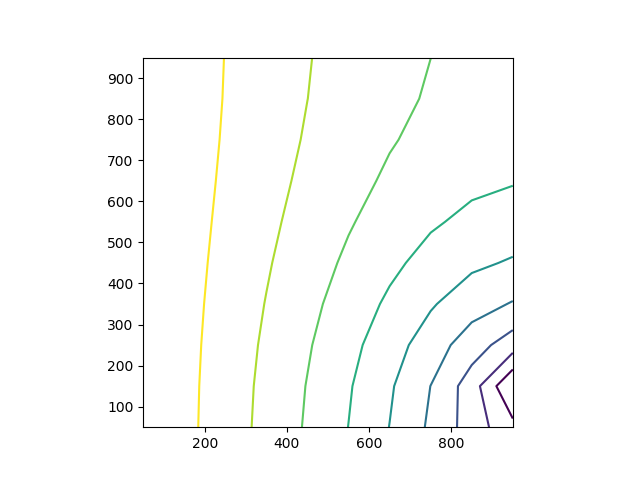
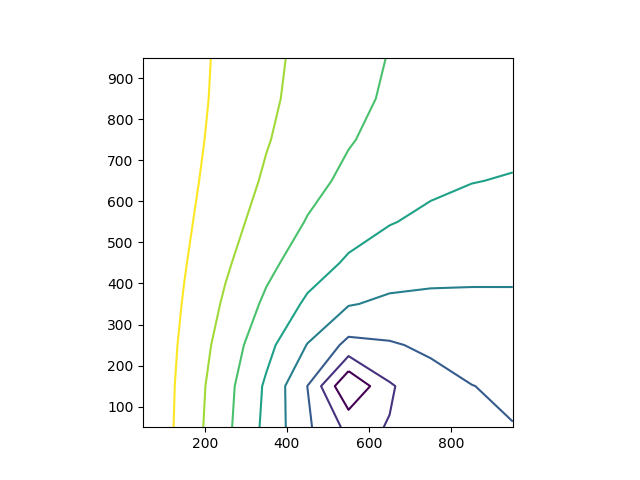
added the Zheng and bennet method (attempted)

diff --git a/partipy/partipy.py b/partipy/partipy.py
@@ -26,15 +26,22 @@ def get_flow_faces(times,time,cbbobj,lay=0):
     frf = cbbobj.get_data(text='FLOW RIGHT FACE', totim=times[idx])[0]
     return fff, frf # reverse flow up and down for flow front face
 
+def in_domain(r,c,nrow,ncol):
+    val = True
+    if (r < 0) or (r >= nrow):
+        val = False
+    if (c < 0) or (c >= ncol):
+        cal = False
+    return val
+
 def weak_sink(times,time,cbbobj,fff,frf,l,r,c):
     nlay,nrow,ncol = fff.shape
     if (r < 0) or (r >= nrow):
         return True
     if (c < 0) or (c >= ncol):
-        print('batman')
         return True
 
-    Qin = -fff[l][r,c] + frf[l][r,c] # + flf? flow from other layer, still getting there.
+    Qin = abs(fff[l][r,c]) + abs(frf[l][r,c]) # + flf? flow from other layer, still getting there.
     idx = np.searchsorted(times,time)
     if idx >= len(times):
         idx = 0
@@ -42,11 +49,12 @@ def weak_sink(times,time,cbbobj,fff,frf,l,r,c):
     chb[chb == 0] = np.nan
     Qsnk = chb[l][r,c]
     snk = Qsnk/Qin
-
+    print(Qsnk,Qin)
     if snk < 1:
         return True
     else:
         return False
+
 
 
 class track_particles():
@@ -81,6 +89,7 @@ class track_particles():
                 xp0, yp0 = xpts[-1], ypts[-1]
 
                 l,r,c = what_cell_am_i_in((xp0,yp0),1,delc,delr)
+                if not in_domain(r,c,self.nrow,self.ncol): break
                 fff,frf = get_flow_faces(self.times,time,self.cbbobj)
 
                 vxp0 = (frf[l][r,c]) / (delr[c] * thk[l][r,c] * n)
@@ -90,6 +99,7 @@ class track_particles():
                 yp1 = yp0+ vyp0 * delt/2
 
                 l,r,c = what_cell_am_i_in((xp1,yp1),1,delc,delr)
+                if not in_domain(r,c,self.nrow,self.ncol): break
                 vxp1 = (frf[l][r,c]) / (delr[c] * thk[l][r,c] * n)
                 xp2 = xp0 + vxp1 * delt/2
 
@@ -97,10 +107,7 @@ class track_particles():
                 yp2 = yp0 + vyp1 * delt/2
 
                 l,r,c = what_cell_am_i_in((xp2,yp2),1,delc,delr)
-                if (r < 0) or (r >= fff.shape[1]):
-                    break
-                if (c < 0) or (c >= fff.shape[2]):
-                    break
+                if not in_domain(r,c,self.nrow,self.ncol): break
                 vxp2 = (frf[l][r,c]) / (delr[c] * thk[l][r,c] * n)
                 xp3 = xp0 + vxp2 * delt
 
@@ -109,6 +116,7 @@ class track_particles():
                 yp3 = yp0 + vyp2 * delt
 
                 l,r,c, = what_cell_am_i_in((xp3,yp3),1,delc,delr)
+                if not in_domain(r,c,self.nrow,self.ncol): break
                 if weak_sink(self.times,time,self.cbbobj,fff,frf,l,r,c):
                     break
                 else:
@@ -117,3 +125,57 @@ class track_particles():
             end_pts[i] = [xpts,ypts]
 
         return end_pts
+
+    def Zheng(self):
+        # Runge-Kutta implicit method
+        delr, delc = self.delr, self.delc
+        thk = self.mf.dis.thickness.array
+        n = self.n
+        starting_locs = self.starting_locs
+        delt = self.delt
+        end_pts = {}
+        for i in range(len(starting_locs)):
+            x0, y0 = starting_locs[i]
+            xpts, ypts = [x0], [y0]
+            for t in range(self.ntimes):
+                time = delt * t + self.times[0]
+                xp0, yp0 = xpts[-1], ypts[-1]
+
+                l, r, c = what_cell_am_i_in((xp0, yp0), 1, delc, delr)
+                if not in_domain(r,c,self.nrow,self.ncol): break
+                fff, frf = get_flow_faces(self.times, time, self.cbbobj)
+
+                vxp0 = (frf[l][r, c]) / (delr[c] * thk[l][r, c] * n)
+                xp1 = xp0 + vxp0 * delt / 2
+
+                vyp0 = -(fff[l][r, c]) / (delc[r] * thk[l][r, c] * n)
+                yp1 = yp0 + vyp0 * delt / 2
+
+                l, r, c = what_cell_am_i_in((xp1, yp1), 1, delc, delr)
+                if not in_domain(r,c,self.nrow,self.ncol): break
+                vxp1 = (frf[l][r, c]) / (delr[c] * thk[l][r, c] * n)
+                xp2 = xp0 + vxp1 * delt / 2
+
+                vyp1 = -(fff[l][r, c]) / (delc[r] * thk[l][r, c] * n)
+                yp2 = yp0 + vyp1 * delt / 2
+
+                l,r,c = what_cell_am_i_in((xp2,yp2),1,delc,delr)
+                if not in_domain(r,c,self.nrow,self.ncol): break
+                vxp2 = (frf[l][r,c]) / (delr[c] * thk[l][r,c] * n)
+                xp3 = xp0 + vxp2 * delt
+
+                vyp2 = -(fff[l][r,c]) / (delc[r] * thk[l][r,c] * n)
+                yp3 = yp0 + vyp2 * delt
+
+                vxp3 = (frf[l][r,c]) / delr[c] * thk[l][r,c]
+                xnp1 = xpts[-1] + (delt/6)*(vxp0 + 2*vxp1 + 2*vxp2 + vxp3)
+
+                vyp3 = (frf[l][r,c]) / delr[c] * thk[l][r,c]
+                ynp1 = ypts[-1] + (delt/6)*(vyp0 + 2*vyp1 + 2*vyp2 + vyp3)
+
+                xpts.append(xnp1)
+                ypts.append(ynp1)
+            end_pts[i] = [xpts, ypts]
+        return end_pts
+
+

diff --git a/examples/tutorial01.py b/examples/tutorial01.py
@@ -25,12 +25,12 @@ botm = np.linspace(ztop, zbot, nlay + 1)
 nper=3
 # Create the discretization object
 dis = flopy.modflow.ModflowDis(mf, nlay, nrow, ncol, delr=delr, delc=delc,
-                               top=ztop, botm=botm[1:],nper=nper,perlen=10)
+                               top=ztop, botm=botm[1:],nper=nper,perlen=365)
 
 # Variables for the BAS package
 ibound = np.ones((nlay, nrow, ncol), dtype=np.int32)
 ibound[:, :, 0] = -1
-ibound[:, 8, -1] = -1
+ibound[:, 8, 5] = -1
 strt = np.ones((nlay, nrow, ncol), dtype=np.float32)
 strt[:, :, 0] = 10.
 strt[:, 8, -1] = 0
@@ -60,7 +60,8 @@ import flopy.utils.binaryfile as bf
 
 plt.subplot(1, 1, 1, aspect='equal')
 hds = bf.HeadFile(modelname + '.hds')
-head = hds.get_data(totim=30)
+times = hds.get_times()
+head = hds.get_data(totim=times[-1])
 levels = np.arange(1, 10, 1)
 extent = (delr / 2., Lx - delr / 2., Ly - delc / 2., delc / 2.)
 plt.contour(head[0, :, :], levels=levels, extent=extent)
@@ -70,7 +71,6 @@ fig = plt.figure(figsize=(10,10))
 ax = fig.add_subplot(1, 1, 1, aspect='equal')
 
 hds = bf.HeadFile(modelname+'.hds')
-times = hds.get_times()
 head = hds.get_data(totim=times[-1])
 levels = np.linspace(0, 10, 11)
 

diff --git a/partipy/learn_to_fly.py b/partipy/learn_to_fly.py
@@ -11,9 +11,10 @@ modelname = 'tutorial1'
 starting_locs = [(199,250),(150,850),(400,510)]
 
 # particles = partipy.track_particles.rk4(starting_locs=starting_locs,n=3,delt=20,ntimes=30)
-tp = partipy.track_particles(modelname+'.cbc',model_ws,modelname,starting_locs,.3,20,30)
+tp = partipy.track_particles(modelname+'.cbc',model_ws,modelname,starting_locs,.3,5,int(3*365/5))
 
-particles = tp.rk4()
+# particles = tp.rk4()
+particles = tp.Zheng()
 
 px, py = particles[0]
 px1,py1 = particles[1]
@@ -31,7 +32,7 @@ modelmap = flopy.plot.ModelMap(model=mf, layer=0)
 qm = modelmap.plot_ibound()
 lc = modelmap.plot_grid()
 hds = bf.HeadFile(os.path.join(model_ws, modelname + '.hds'))
-head = hds.get_data(totim=30)
+head = hds.get_data(totim=times[-1])
 # levels = np.linspace(0, 10, 11)
 # cs = modelmap.contour_array(head, levels=levels)
 ax.scatter(px, py)
